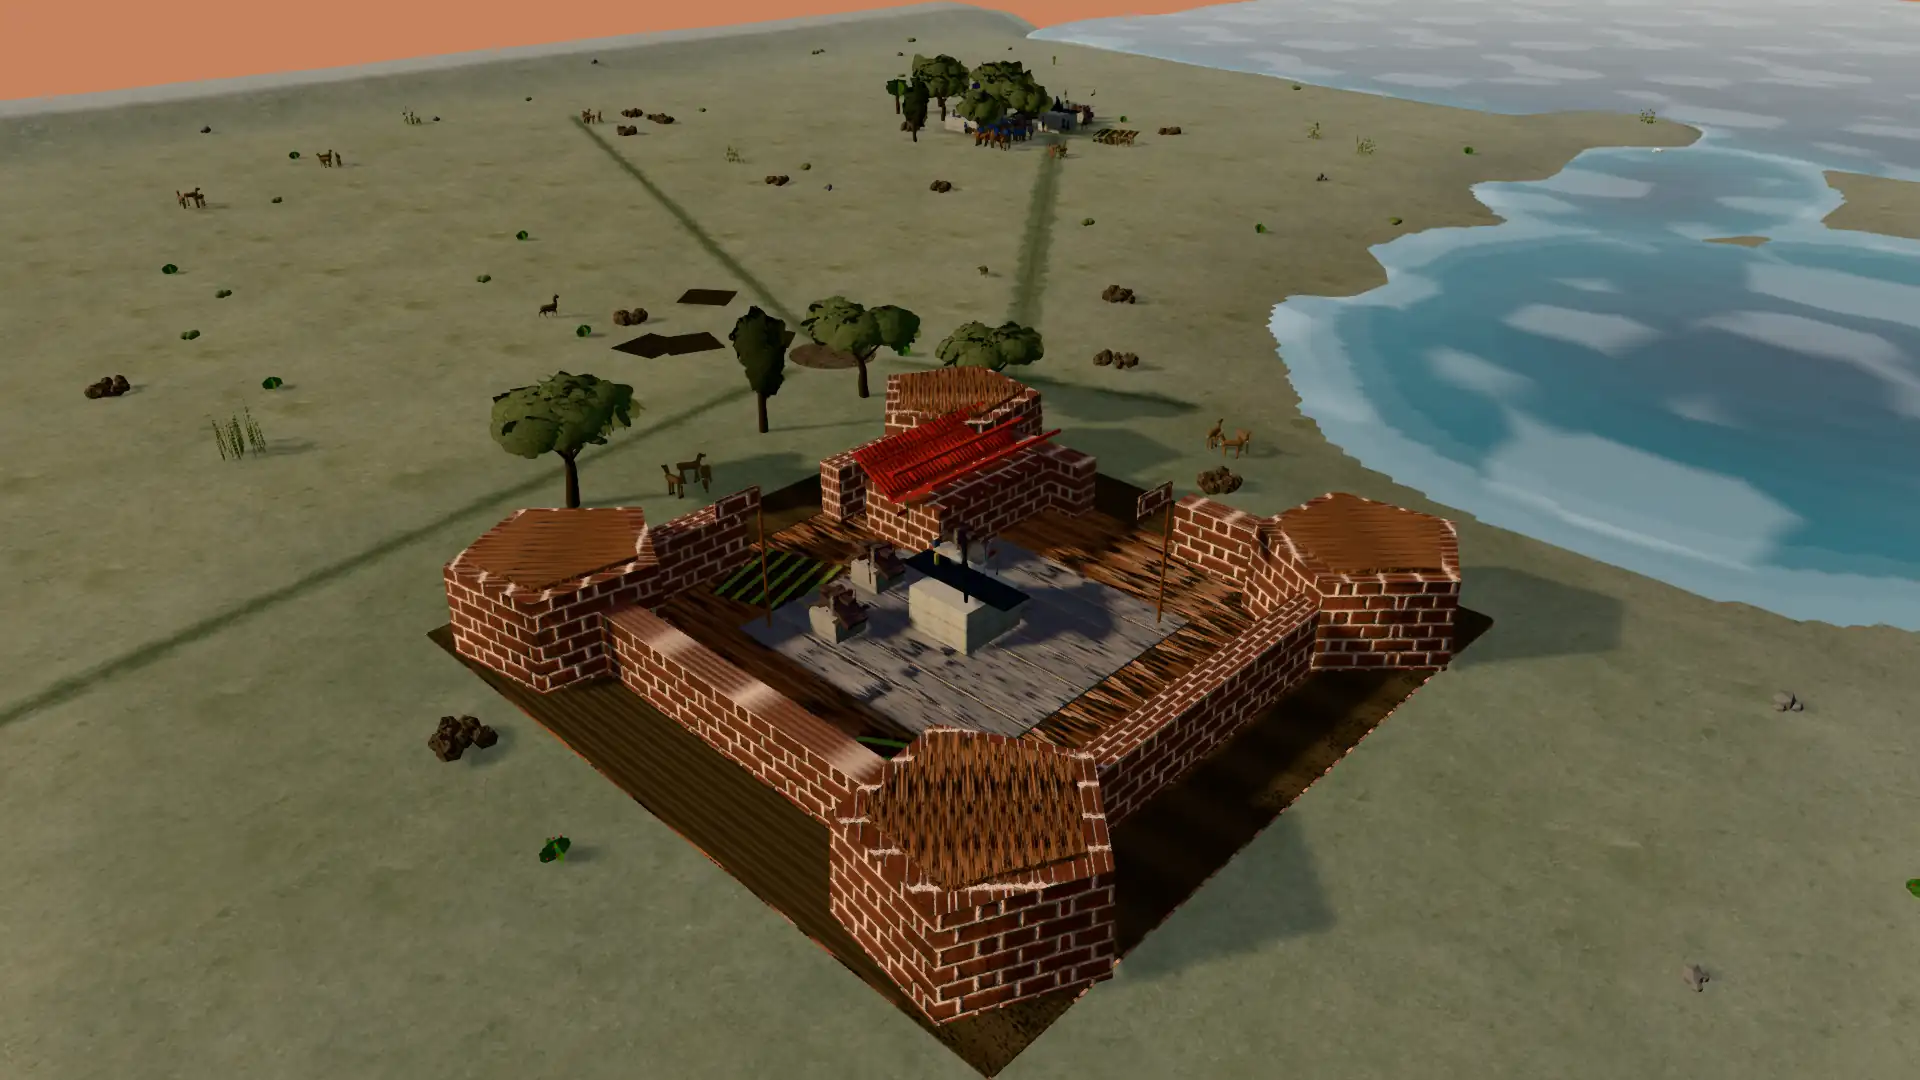
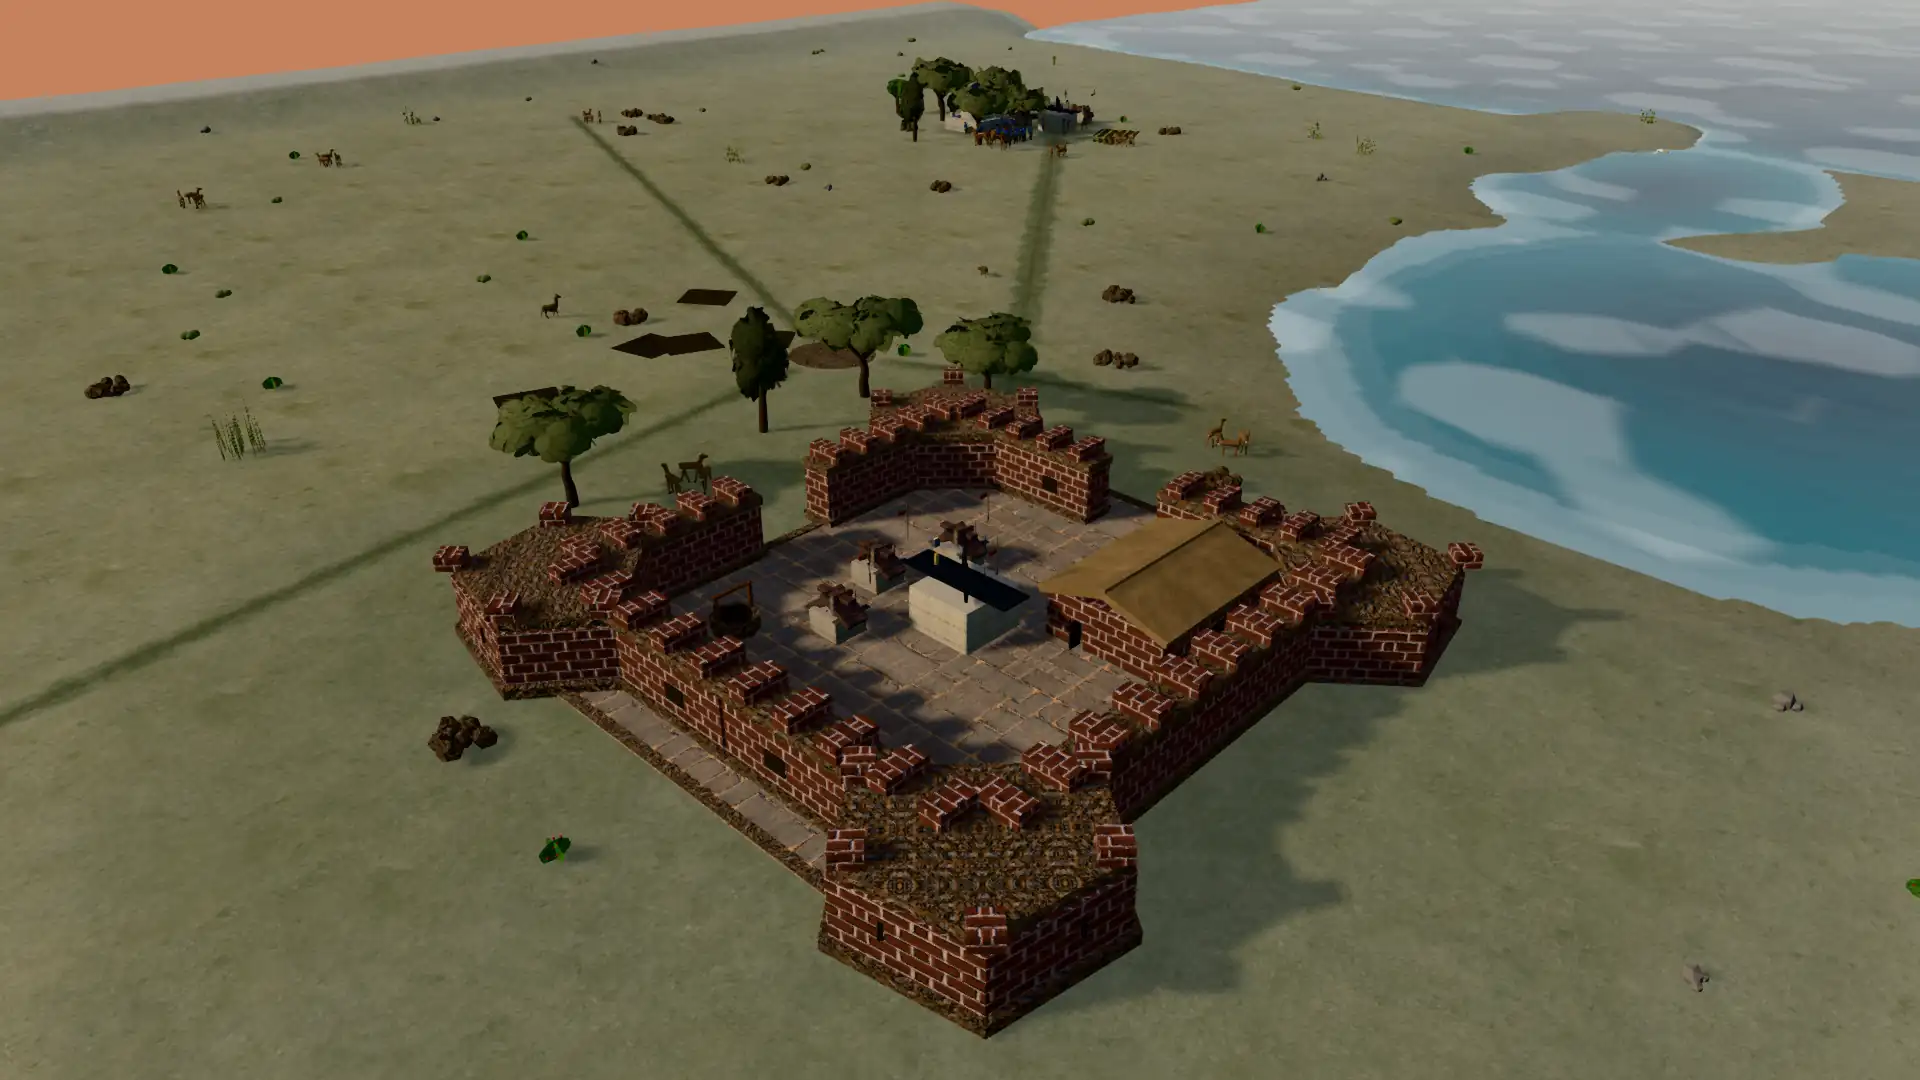
docs(architecture): record the courtyard pass and refresh the dusk still
Review fixes on the courtyard change:

- Regenerate `public/media/real-felipe/cine-bastion.webp` with the kit: the still looks into the courtyard
  and still showed the pre-kit fort.
- Record the exact before/after recipe (patch/stash, copy to `review/fort-{before,after}`, sheet invocation
  with its footer) and note that the two frames are live runs, so only the courtyard is the intended change.
- Sync PROVENANCE: the warmed `ground_plaza` mapping and the new sheet plus the refreshed still.
- Say the colour mapping is stronger and flatter than the colonial paving, and that it is a runtime mapping
  change, not a change to the shared texture set.
- Guard the plaza values in the Republican kit test.

diff --git a/tests/republic-architecture-kit.test.ts b/tests/republic-architecture-kit.test.ts
@@ -138,6 +138,10 @@ describe('runtime surfaces', () => {
   it('ships the paved apron in the game GLB and textures the kit sets', () => {
     expect(ARCH_SURFACES['MAT-Arch_RepublicPaving'].set).toBe('plaster_detail');
     expect(ARCH_SURFACES['MAT-Arch_RepublicPlaza'].set).toBe('ground_plaza');
+    // The courtyard is the one Republican floor seen at dusk: warmed and lifted, with flatter joints.
+    expect(ARCH_SURFACES['MAT-Arch_RepublicPlaza'].tint).toBe(0xf2e2c4);
+    expect(ARCH_SURFACES['MAT-Arch_RepublicPlaza'].normal).toBeLessThan(0.5);
+    expect(ARCH_SURFACES['MAT-Arch_RepublicPlaza'].lift).toBeGreaterThan(1.5);
     expect(ARCH_SURFACES['MAT-Arch_RepublicBrick'].set).toBe('wall_brick');
     expect(ARCH_SURFACES['MAT-Arch_RepublicStone'].lift).toBeGreaterThan(1);
     expect(ARCH_SURFACES['MAT-Arch_RepublicAdobe'].keepColor).toBe(true);

diff --git a/docs/design/republic-sites.md b/docs/design/republic-sites.md
@@ -33,16 +33,16 @@ It is a project-owned low-poly abstraction, **not** a survey and **not** a histo
 Eight Principled materials for the whole kit, box-projected UVs at world scale, a COLOR_0 tint and no
 textures in the GLBs. At runtime the shared PBR detail sets are mapped by `ARCH_SURFACES`.
 
-| Material                  | Runtime set                       | Use                                                                 |
-| ------------------------- | --------------------------------- | ------------------------------------------------------------------- |
-| `MAT-Arch_RepublicBrick`  | `wall_brick`, warm tint and lift  | Real Felipe curtains, bastions and magazine                         |
-| `MAT-Arch_RepublicStone`  | `wall_fieldstone`, lifted         | Battery, fort bases, kerbs, corral, parapet, outcrops               |
-| `MAT-Arch_RepublicAdobe`  | `plaster_detail`, kept colour     | Warehouse, quebrada houses and chapel                               |
-| `MAT-Arch_RepublicEarth`  | `plaster_detail`, kept colour     | Earth gable roofs and flat parapet roofs                            |
-| `MAT-Arch_RepublicWood`   | `wood`                            | Pier, doors, lintels, gun carriages, flagpole                       |
-| `MAT-Arch_RepublicPaving` | `plaster_detail`, kept colour     | Packed-earth terrace, village plaza                                 |
-| `MAT-Arch_RepublicPlaza`  | `ground_plaza`, warmed and lifted | Real Felipe courtyard paving, the one Republican floor seen at dusk |
-| `MAT-Arch_RepublicDark`   | `plaster_detail`, kept colour     | Openings, embrasures, gun muzzles                                   |
+| Material | Runtime set | Use |
+| --- | --- | --- |
+| `MAT-Arch_RepublicBrick` | `wall_brick`, warm tint and lift | Real Felipe curtains, bastions and magazine |
+| `MAT-Arch_RepublicStone` | `wall_fieldstone`, lifted | Battery, fort bases, kerbs, corral, parapet, outcrops |
+| `MAT-Arch_RepublicAdobe` | `plaster_detail`, kept colour | Warehouse, quebrada houses and chapel |
+| `MAT-Arch_RepublicEarth` | `plaster_detail`, kept colour | Earth gable roofs and flat parapet roofs |
+| `MAT-Arch_RepublicWood` | `wood` | Pier, doors, lintels, gun carriages, flagpole |
+| `MAT-Arch_RepublicPaving` | `plaster_detail`, kept colour | Packed-earth terrace, village plaza |
+| `MAT-Arch_RepublicPlaza` | `ground_plaza`, warmed and lifted | Real Felipe courtyard paving, the one Republican floor seen at dusk |
+| `MAT-Arch_RepublicDark` | `plaster_detail`, kept colour | Openings, embrasures, gun muzzles |
 
 Maximum 4 materials per piece; LOD0 ≤ 5k and LOD1 ≤ 1.5k triangles, with the chapel and the bastion as
 monument pieces (≤ 8k / 2.4k). Every piece is terrain-conformed; floors and the pier have no footprint and
@@ -54,32 +54,32 @@ Sampled from the authored heightfields before placing. `ArchitectureCity` seats 
 ground under its footprint (floors use the highest and a `lift`); the heights below are the pads the kit
 was checked against:
 
-| Pad                                                          | Height    |
-| ------------------------------------------------------------ | --------- |
-| Arica port terrace                                           | 4.0 m     |
-| Callao fort pad (the mission overrides the site heightfield) | 3.535 m   |
-| Tarapacá village                                             | 6.942 m   |
-| Tarapacá crest                                               | 9.0–9.5 m |
-| Pachica                                                      | 6.94 m    |
+| Pad | Height |
+| --- | --- |
+| Arica port terrace | 4.0 m |
+| Callao fort pad (the mission overrides the site heightfield) | 3.535 m |
+| Tarapacá village | 6.942 m |
+| Tarapacá crest | 9.0–9.5 m |
+| Pachica | 6.94 m |
 
 ## Pieces
 
-| Asset         | Composition                                             | Footprint       |
-| ------------- | ------------------------------------------------------- | --------------- |
-| `apron`       | Arica's paved port terrace and Tarapacá's packed plaza  | none (floor)    |
-| `battery`     | Five-gun stone rampart, terreplein, magazine, flagpole  | 13 × 7.4 m      |
-| `warehouse`   | Adobe port warehouse with a loading door and earth roof | 10 × 6 m        |
-| `pier`        | Timber landing on piles                                 | none (walkable) |
-| `curtain`     | 12 m brick curtain on a stone base, crenellated         | 12 × 2.1 m      |
-| `bastion`     | Pentagonal Real Felipe corner bastion                   | 10 × 8.5 m      |
-| `magazine`    | Vaulted brick magazine under an earth roof              | 8 × 6 m         |
-| `fort_plaza`  | Paved fort courtyard                                    | none (floor)    |
-| `well`        | Stone well with timber frame                            | 2.2 × 2.2 m     |
-| `chapel`      | Adobe nave, earth roof and espadaña                     | 7 × 10 m        |
-| `adobe_house` | Flat-roofed quebrada house with a low parapet           | 8 × 6 m         |
-| `corral_wall` | 10 m stone corral wall                                  | 10 × 0.7 m      |
-| `parapet`     | 20 m stone crest parapet                                | 20 × 1 m        |
-| `outcrop`     | Low rock outcrop for the heights                        | 3.4 × 2.8 m     |
+| Asset | Composition | Footprint |
+| --- | --- | --- |
+| `apron` | Arica's paved port terrace and Tarapacá's packed plaza | none (floor) |
+| `battery` | Five-gun stone rampart, terreplein, magazine, flagpole | 13 × 7.4 m |
+| `warehouse` | Adobe port warehouse with a loading door and earth roof | 10 × 6 m |
+| `pier` | Timber landing on piles | none (walkable) |
+| `curtain` | 12 m brick curtain on a stone base, crenellated | 12 × 2.1 m |
+| `bastion` | Pentagonal Real Felipe corner bastion | 10 × 8.5 m |
+| `magazine` | Vaulted brick magazine under an earth roof | 8 × 6 m |
+| `fort_plaza` | Paved fort courtyard | none (floor) |
+| `well` | Stone well with timber frame | 2.2 × 2.2 m |
+| `chapel` | Adobe nave, earth roof and espadaña | 7 × 10 m |
+| `adobe_house` | Flat-roofed quebrada house with a low parapet | 8 × 6 m |
+| `corral_wall` | 10 m stone corral wall | 10 × 0.7 m |
+| `parapet` | 20 m stone crest parapet | 20 × 1 m |
+| `outcrop` | Low rock outcrop for the heights | 3.4 × 2.8 m |
 
 ## Compositions
 
@@ -97,13 +97,13 @@ was checked against:
 
 ## Attested elements and abstractions
 
-| Element                             | Source status                                 | In game                                                                       |
-| ----------------------------------- | --------------------------------------------- | ----------------------------------------------------------------------------- |
-| Port terrace, battery and warehouse | Documented port functions and defensive works | Kit pieces on the authored terrace.                                           |
-| Real Felipe bastions and curtains   | Documented fort form                          | Kit trace; the 24 m side and gate positions are compressed for the RTS scale. |
-| Adobe village, chapel and corral    | Documented quebrada settlement                | Kit houses, chapel with espadaña and stone corral.                            |
-| Trench/parapet on the heights       | Documented defensive line                     | Stone parapet and outcrops.                                                   |
-| Exact plans, bay counts, gun counts | Not reproduced                                | Marked plausible in the manifests; never presented as a survey.               |
+| Element | Source status | In game |
+| --- | --- | --- |
+| Port terrace, battery and warehouse | Documented port functions and defensive works | Kit pieces on the authored terrace. |
+| Real Felipe bastions and curtains | Documented fort form | Kit trace; the 24 m side and gate positions are compressed for the RTS scale. |
+| Adobe village, chapel and corral | Documented quebrada settlement | Kit houses, chapel with espadaña and stone corral. |
+| Trench/parapet on the heights | Documented defensive line | Stone parapet and outcrops. |
+| Exact plans, bay counts, gun counts | Not reproduced | Marked plausible in the manifests; never presented as a survey. |
 
 ## Evidence
 
@@ -128,13 +128,27 @@ node scripts/republic_sites_sheet.mjs --before=review/republic-before --after=re
 ```
 
 The courtyard has its own before/after, `docs/media/republic-fort-courtyard-before-after.webp`, because
-`MAT-Arch_RepublicPlaza` is the only material used by a single piece (`fort_plaza`). Capture it by
-stashing the `ARCH_SURFACES` line, running the Real Felipe command above into `review/fort-before`, then
-reapplying it and capturing into `review/fort-after`; compose with `--rows=real-felipe`.
+`MAT-Arch_RepublicPlaza` is the only material used by a single piece (`fort_plaza`). Run the Real Felipe
+command above **without** the change in `src/rendering/architectureKit.ts`
+(`git diff -- src/rendering/architectureKit.ts > /tmp/fort.patch && git checkout -- src/rendering/architectureKit.ts`)
+and copy `review/republic-real-felipe_0.png` to `review/fort-before/real-felipe_0.png`; reapply the patch
+(`git apply /tmp/fort.patch`), capture again and copy to `review/fort-after/real-felipe_0.png`. Then:
 
-The grey `ground_plaza` set read navy under the cool dusk light of `m_real_felipe`, so the courtyard is
-warmed and lifted (`tint 0xf2e2c4`, `lift 1.7`) with flatter joints (`normal 0.35`), like the colonial
-paving. It is a light correction to the shared set at runtime, not a new render or a historical claim.
+```
+node scripts/republic_sites_sheet.mjs --before=review/fort-before --after=review/fort-after \
+  --rows=real-felipe --out=docs/media/republic-fort-courtyard-before-after.webp \
+  --footer="Real Felipe courtyard · MAT-Arch_RepublicPlaza · scripts/blender/build_republic_architecture_kit.py"
+```
+
+The frames come from two live runs, so the sea, the trees and the units move between them; the fort,
+camera and light are the same, and the courtyard is the only intentional difference.
+
+The grey `ground_plaza` set read cold grey and near-black in the courtyard shadow under the cool dusk light
+of `m_real_felipe`, so the mapping is warmed and lifted (`tint 0xf2e2c4`, `lift 1.7`) with flatter joints
+(`normal 0.35`), in the direction of the colonial paving but stronger and flatter than it. The texture set
+and the geometry are untouched: it is a runtime mapping change in `ARCH_SURFACES`, not a new render or a
+historical claim. The cinematic still `public/media/real-felipe/cine-bastion.webp`, which looks into the
+courtyard, is regenerated with `node scripts/capture_cinema.mjs --mission=m_real_felipe --only=cine-bastion`.
 
 ## Tests
 

diff --git a/PROVENANCE.md b/PROVENANCE.md
@@ -1021,7 +1021,9 @@ slot is absent (offline / without assets).
   per-vertex tint (wall-foot grime, roof and paving variation; the horizontal paving and plaza skip the
   grime); no textures in the GLBs. At runtime the game maps `wall_brick` (warm, lifted) onto the fort,
   `wall_fieldstone` (lifted) onto the stone, `plaster_detail` onto adobe and earth, `wood` onto the timber,
-  `ground_plaza` onto the fort courtyard and `plaster_detail` (kept colour) onto the packed aprons. LOD0
+  `ground_plaza` onto the fort courtyard (warmed to `tint 0xf2e2c4` and lifted 1.7, with flatter joints at
+  `normal 0.35`, because the grey set read navy under the mission's cool dusk light) and `plaster_detail`
+  (kept colour) onto the packed aprons. LOD0
   ≤ 5000 / LOD1 ≤ 1500 triangles per piece; the chapel and the bastion are monument pieces (≤ 8000 / 2400).
 - **Historical basis**: documented: the port terrace, battery, warehouse and pier; the Real Felipe's
   bastioned brick/stone trace with four corner bastions and sally gates; the Tarapacá quebrada village with
@@ -1038,7 +1040,13 @@ slot is absent (offline / without assets).
   and `tarapaca-pachica` procedural landmarks.
 - **Evidence**: `docs/media/republic-sites-before-after.webp` (1652x1351 WebP q74): three rows, Arica, Real
   Felipe and Tarapacá, before and after the kit, same mission, seed, camera and light; produced with the
-  `yarn shot` commands in `docs/design/republic-sites.md` and `scripts/republic_sites_sheet.mjs`.
+  `yarn shot` commands in `docs/design/republic-sites.md` and `scripts/republic_sites_sheet.mjs`. The
+  courtyard colour pass has its own sheet, `docs/media/republic-fort-courtyard-before-after.webp`
+  (1652x513 WebP q74), same mission and light, before and after the `MAT-Arch_RepublicPlaza` values in
+  `src/rendering/architectureKit.ts`; the recipe is in the same doc. The `cine-bastion` still
+  (`public/media/real-felipe/cine-bastion.webp`), which looks into the courtyard, was regenerated with
+  `node scripts/capture_cinema.mjs --mission=m_real_felipe --only=cine-bastion`; it still showed the
+  pre-kit fort, so this also brings it in line with the Republican kit.
 
 ### Colonial architecture kit (m_lima, m_lima_1821, m_miraflores, m_junta_cusco, m7_tupac_amaru)
 
